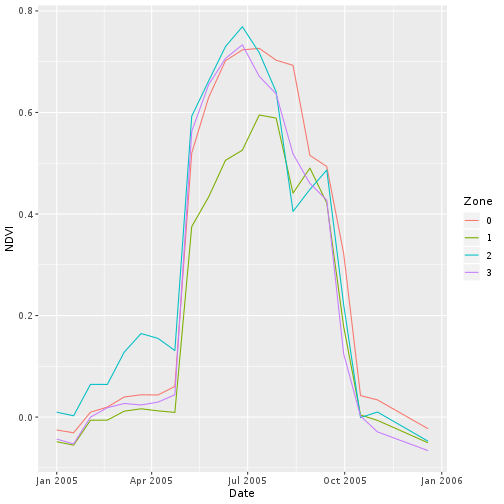
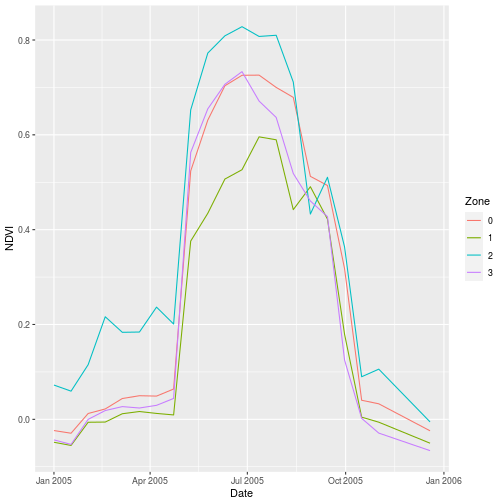
burn scar rasterize fix

diff --git a/docs/_slides/brick.md b/docs/_slides/brick.md
@@ -243,45 +243,32 @@ Currently we have raster data (`ndvi`) and vector data (`scar`). In order to
 aggregate by polygon, we have to join these two datasets. There are two
 approaches. 1) Treat the raster data as POINT geometries in a table and perform
 a spatial join to the table with POLYGON geometries. 2) Turn the polygons into a
-raster and summarize the raster masked for each polygon. Let's pursue option 2,
-but take a shortcut due to the presence of invalid geometries in the shapefile.
+raster and summarize the raster masked for each polygon. Let's pursue option 2.
 {:.notes}
 
 ===
 
-Typically we could convert simple features to raster with the `rasterize`
-function, but not all these geometries are well defined.
+Let's convert out `scar` shapefile to raster with the `rasterize`
+function.  
 
 
 
 ~~~r
-# Does not work, due to invalid geometries.
+# Rasterize polygon shapefile.
 scar_geom <-
   as(st_geometry(scar), 'Spatial')
 scar_zone <- rasterize(scar_geom, ndvi,
   background = 0,
-  filename = 'results/scar.grd',
+  filename = 'outputs_raster_ts/scar.grd',
   overwrite = TRUE)
-~~~
-{:title="Do Not Eval" .no-eval .text-document}
 
-
-===
-
-Fortunately, we have the rasterized version from another source.
-
-
-
-~~~r
-scar_zone <- raster('data/r_OVERLAY_ID_83_399_144_TEST_BURNT_83_144_399_reclassed.tif')
 crs(scar_zone) <- '+init=epsg:3338'
 scar_zone <- crop(scar_zone, ndvi)
 ~~~
 {:title="{{ site.data.lesson.handouts[0] }}" .text-document}
 
 
-Create a `RasterLayer` object from the pre-rasterized scar zones image, then 
-crop it to the same extent as `ndvi`.
+Using `as()` we coerce the `scar` shapefile as an object of the 'Spatial' class. We then use `rasterize()` to create a `RasterLayer` object for the shapefile. Then we crop the raster to the same extent as `ndvi`.
 {:.notes}
 
 ===
@@ -334,7 +321,7 @@ greenness compared to the background NDVI (Zone 0).
 +   geom_line()
 ~~~
 {:title="Console" .input}
-![ ]({% include asset.html path="images/brick/unnamed-chunk-18-1.png" %})
+![ ]({% include asset.html path="images/brick/unnamed-chunk-17-1.png" %})
 {:.captioned}
 
 ===
